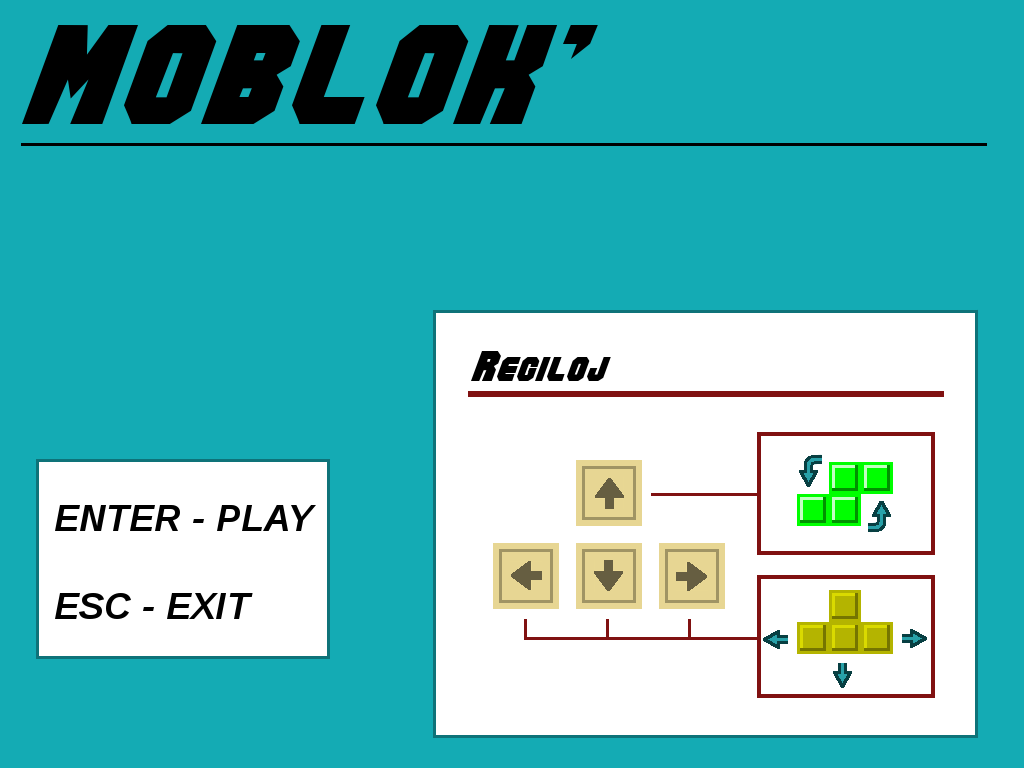
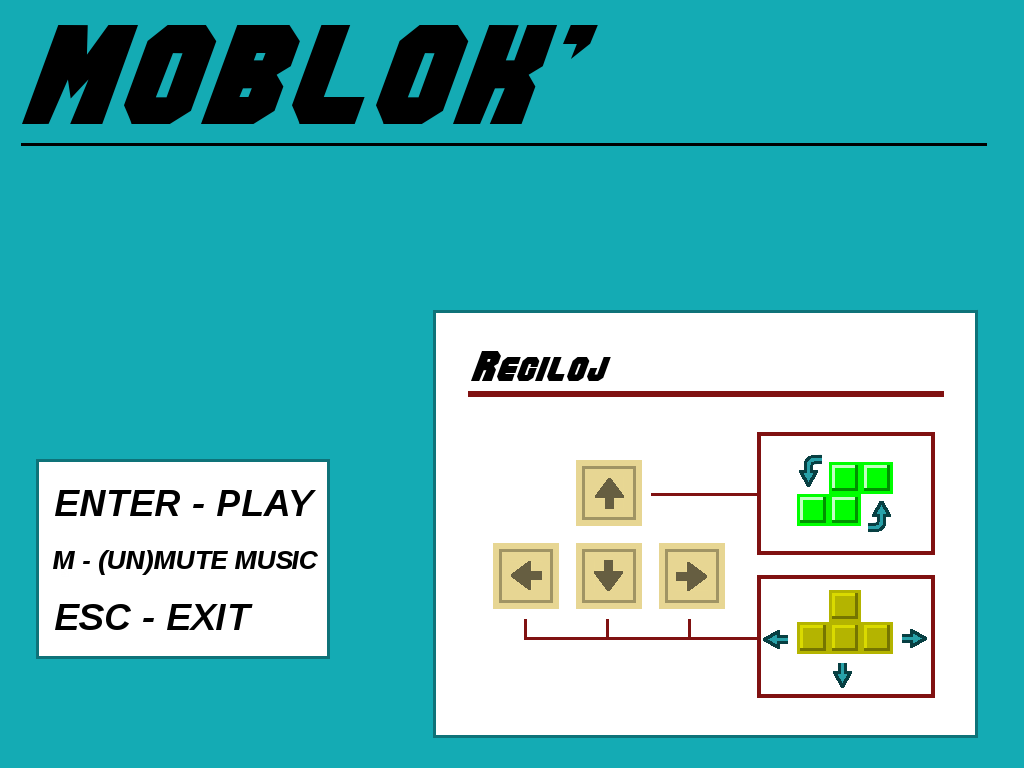
Now user can mute and unmute music from main menu.

Changed region(s): [[0.0312, 0.625, 0.3125, 0.8438]]

diff --git a/source/src/tetris.cpp b/source/src/tetris.cpp
@@ -99,6 +99,12 @@ void Tetris::run()
                         playGame = true;
                     }else if( event.key.keysym.sym == SDLK_ESCAPE ){
                         exitGame = true;
+                    }else if( event.key.keysym.sym == SDLK_m ){
+                        if( Mix_PausedMusic() ){
+                            Mix_ResumeMusic();
+                        }else{
+                            Mix_PauseMusic();
+                        }
                     }
                 break;
                 case SDL_QUIT:
